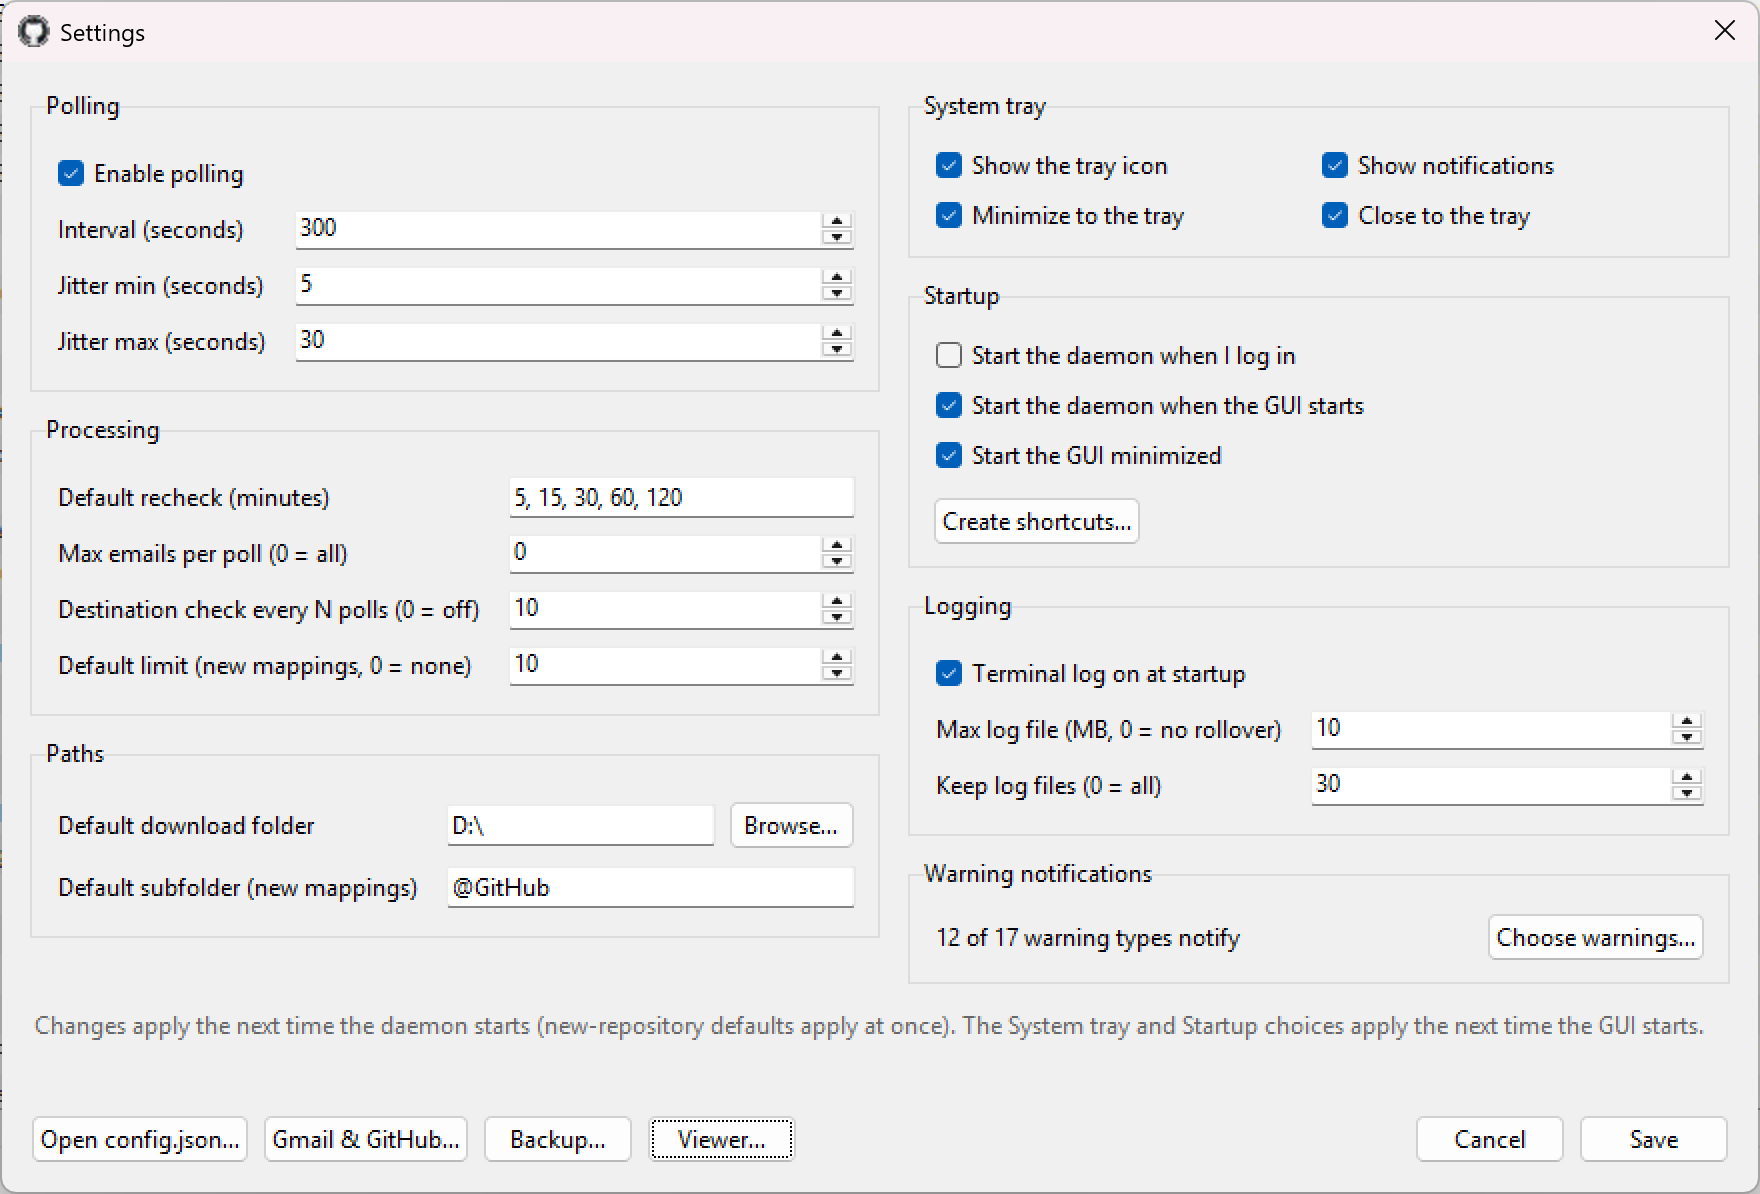
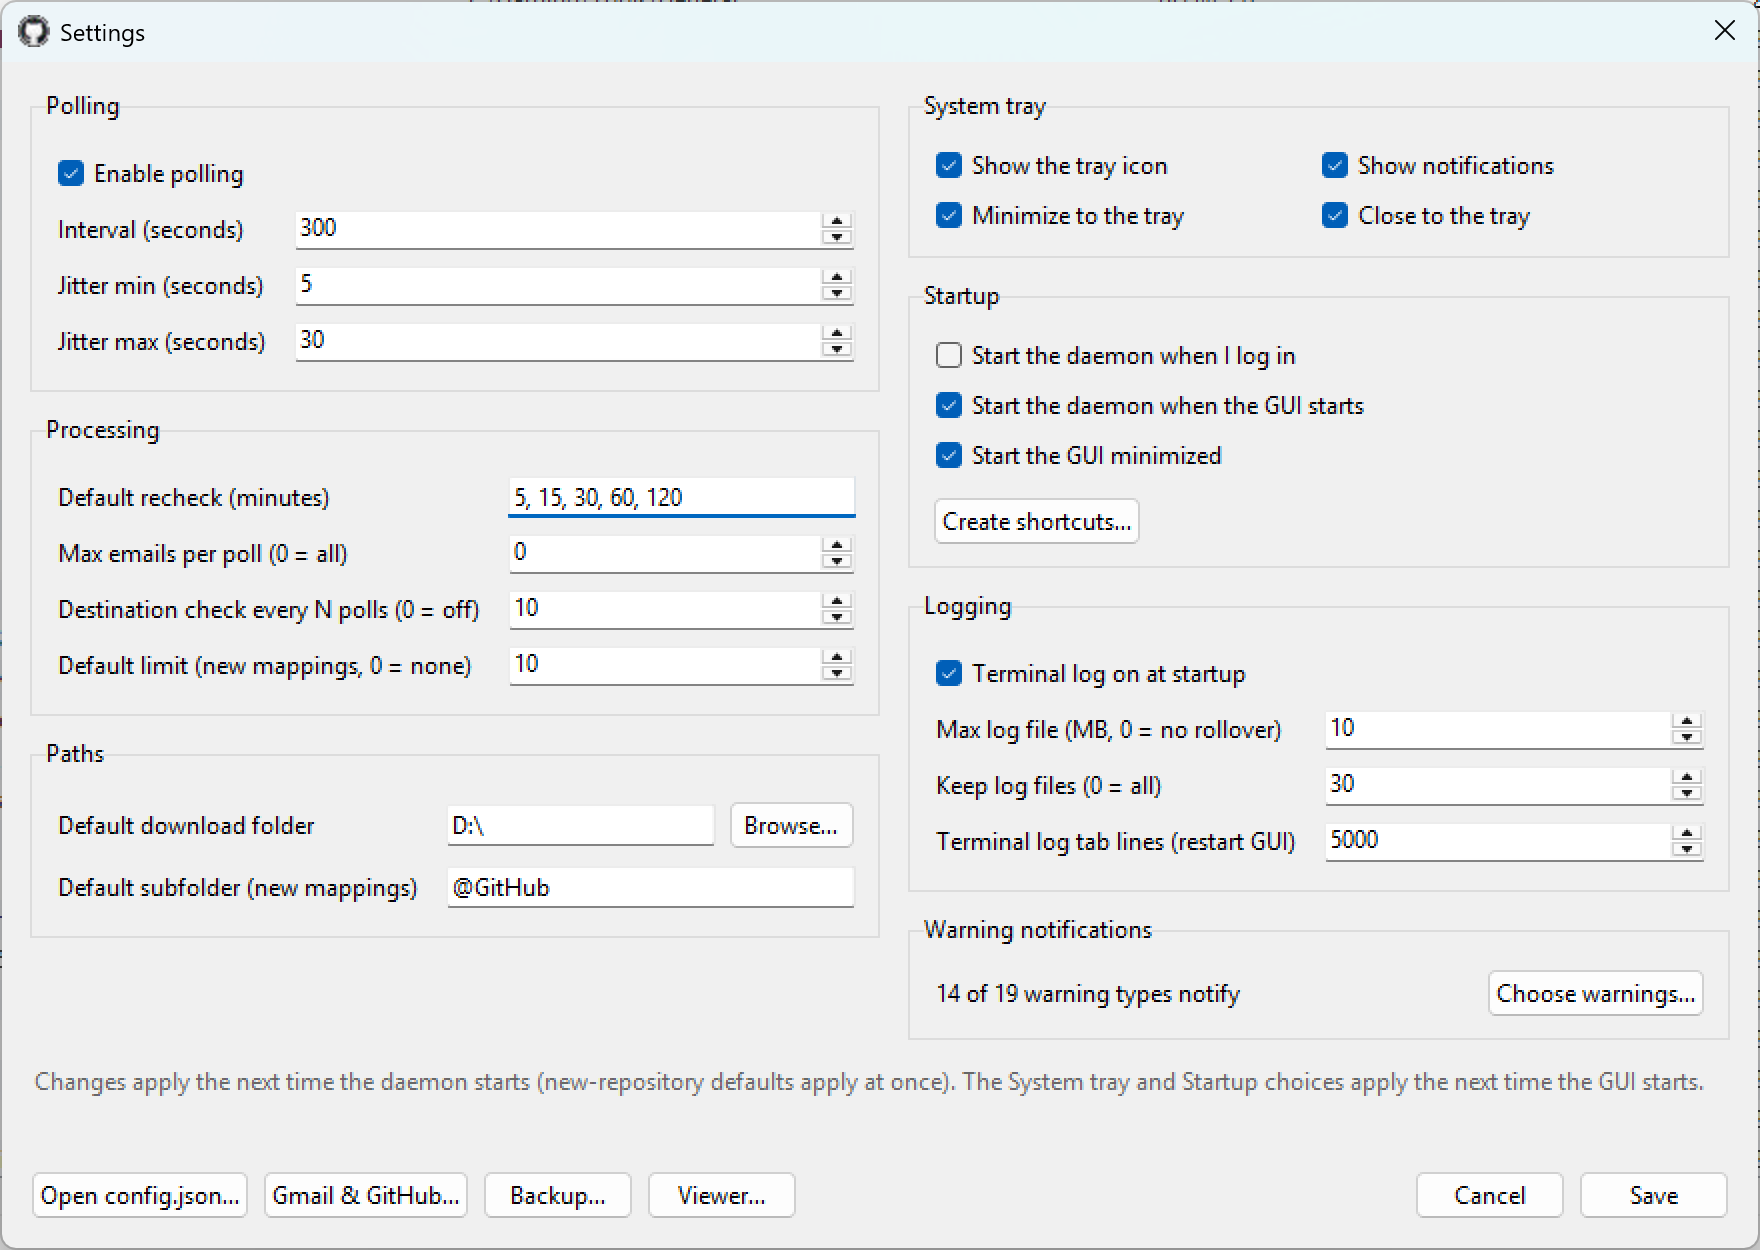
docs: update the README screenshots (#35)
* docs: update the README screenshots

- Replace the five images in `docs/screenshots/` (main window light and dark, Stats, Settings, web viewer) with current ones.
- No code change, no version bump.

* docs: note the 2.13.2 perf baseline in the roadmap

- Record the 2026-11-10 `--perf-report` figures next to the 2.0-RC1 baseline.
- No code change, no version bump.

---------

diff --git a/CLAUDE.md b/CLAUDE.md
@@ -101,6 +101,6 @@
 - [x] **Phase 2 (Structured Logging):** Migrated file logs to SQLite `lifecycle_events`, added cycle summaries, and exposed CLI log tools.
 - [x] **Phase 3 (Timers & Lifecycle):** Created job status engines, schedule persistence layers, and automated idempotency protections.
 - [x] **Phase 4 (GUI Config Mapping):** Done (2026-10-06): layout shell, folder pickers, mapping/config editing, daemon control bar, live log, status tabs.
-- [/] **Phase 5 (Hardening):** Start-up diagnostics and dry-run complete; downloader routing via `mapping.json` already works from the CLI. T5.1 (GUI editing of `mapping.json`) is done. Remaining: a measured performance pass (T5.5): run `--perf-report` after some days of use and compare with the 2.0-RC1 baseline (59-60 days of history: state.db 30.5 MB, about 0.53 MB/day; config load 0.09 ms, mapping.json load 0.6 ms, queue summary per repo 3.1 ms, Mappings table refresh 3.6 ms unchanged / 15.8 ms after a database change, 1 s GUI tick 0.56 ms); optimise ONLY what got slower or is felt as slow. Worth watching: the queue summary as job_queue grows (add an index on repo if it passes ~50 ms), state.db growth (`--purge-jobs` exists), the Completed tab filling up.
+- [/] **Phase 5 (Hardening):** Start-up diagnostics and dry-run complete; downloader routing via `mapping.json` already works from the CLI. T5.1 (GUI editing of `mapping.json`) is done. Remaining: a measured performance pass (T5.5): run `--perf-report` after some days of use and compare with the 2.0-RC1 baseline (59-60 days of history: state.db 30.5 MB, about 0.53 MB/day; config load 0.09 ms, mapping.json load 0.6 ms, queue summary per repo 3.1 ms, Mappings table refresh 3.6 ms unchanged / 15.8 ms after a database change, 1 s GUI tick 0.56 ms); optimise ONLY what got slower or is felt as slow. Measured again on 2026-11-10 with 2.13.2 (94 days of history, local `perf_baseline_2.13.2.json`; the earlier local one is `perf_baseline_2.5.5.json`): state.db 48.0 MB, 0.51 MB/day, job_queue 5,303 rows; queue summary per repo 5.2 ms (3.4 in 2.5.5), Mappings table refresh 20.6 ms after a database change / 0.9 ms unchanged, 1 s GUI tick 0.66 ms; nothing felt slow, nothing optimised. Worth watching: the queue summary as job_queue grows (add an index on repo if it passes ~50 ms), state.db growth (`--purge-jobs` exists), the Completed tab filling up.
 - [x] **Web viewer (2026-10-10):** read-only, passive, daemon pushes out (see `modules/viewer_push.py` above). Smoke-tested for real: real `SnapshotBuilder` on a copy of a live state.db pushing into `ghaadd_viewer.py`, the page rendered in headless Edge (live / stopped / lost / wrong token all behave), compose file validated. NOT yet run: the Docker image build (Docker Desktop was not running) and a real daemon pushing to a viewer on another machine (Debian over the LAN).
 - [x] **Pre-GUI prep:** GUI toolkit is decided (Tkinter), automated tests cover nearly every module (see Unit tests), 1.0 CLI is cut. Concurrency-safe `mapping.json` writes and the global pause/poll-now control channel and the live terminal-log switch are done.
